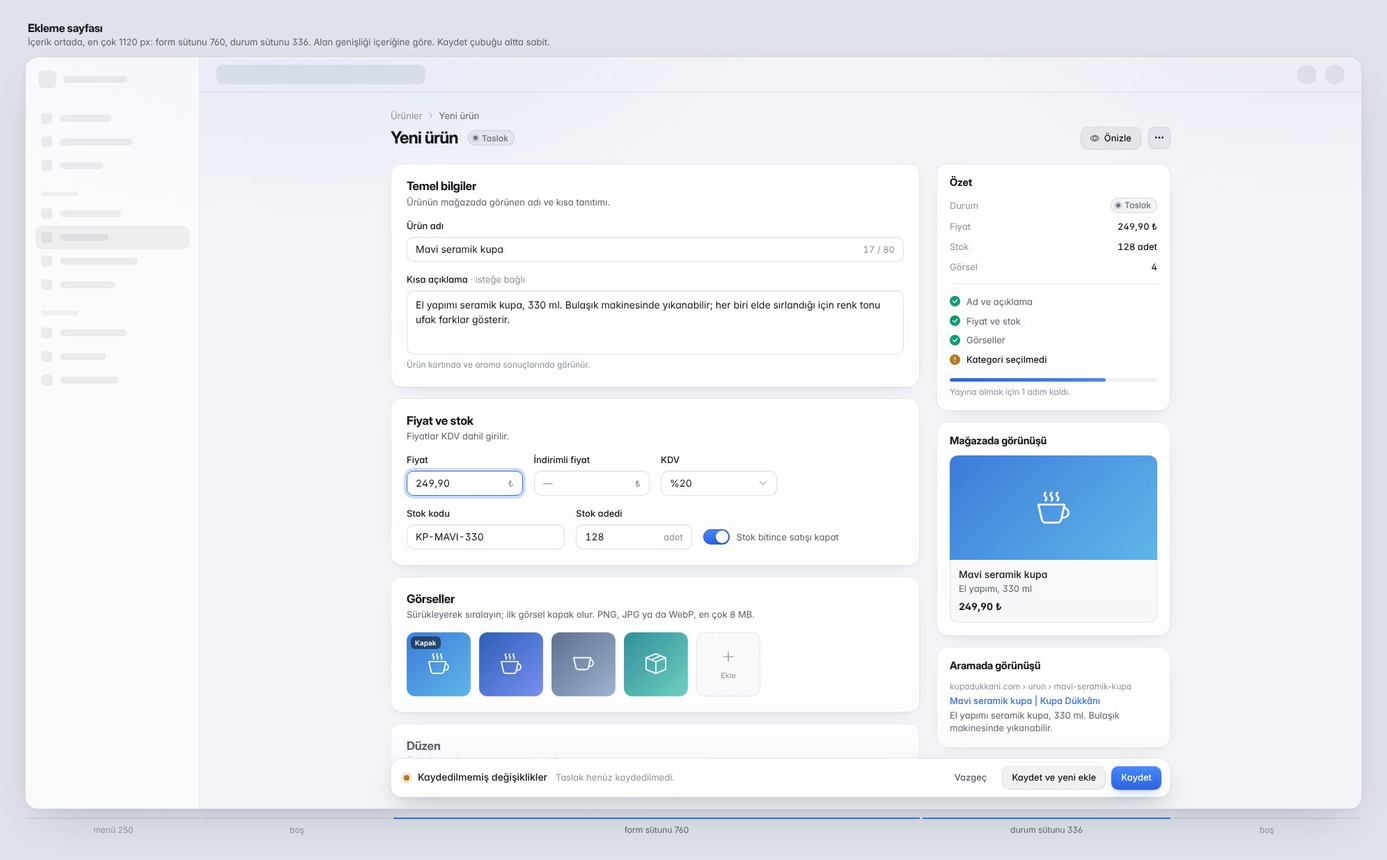
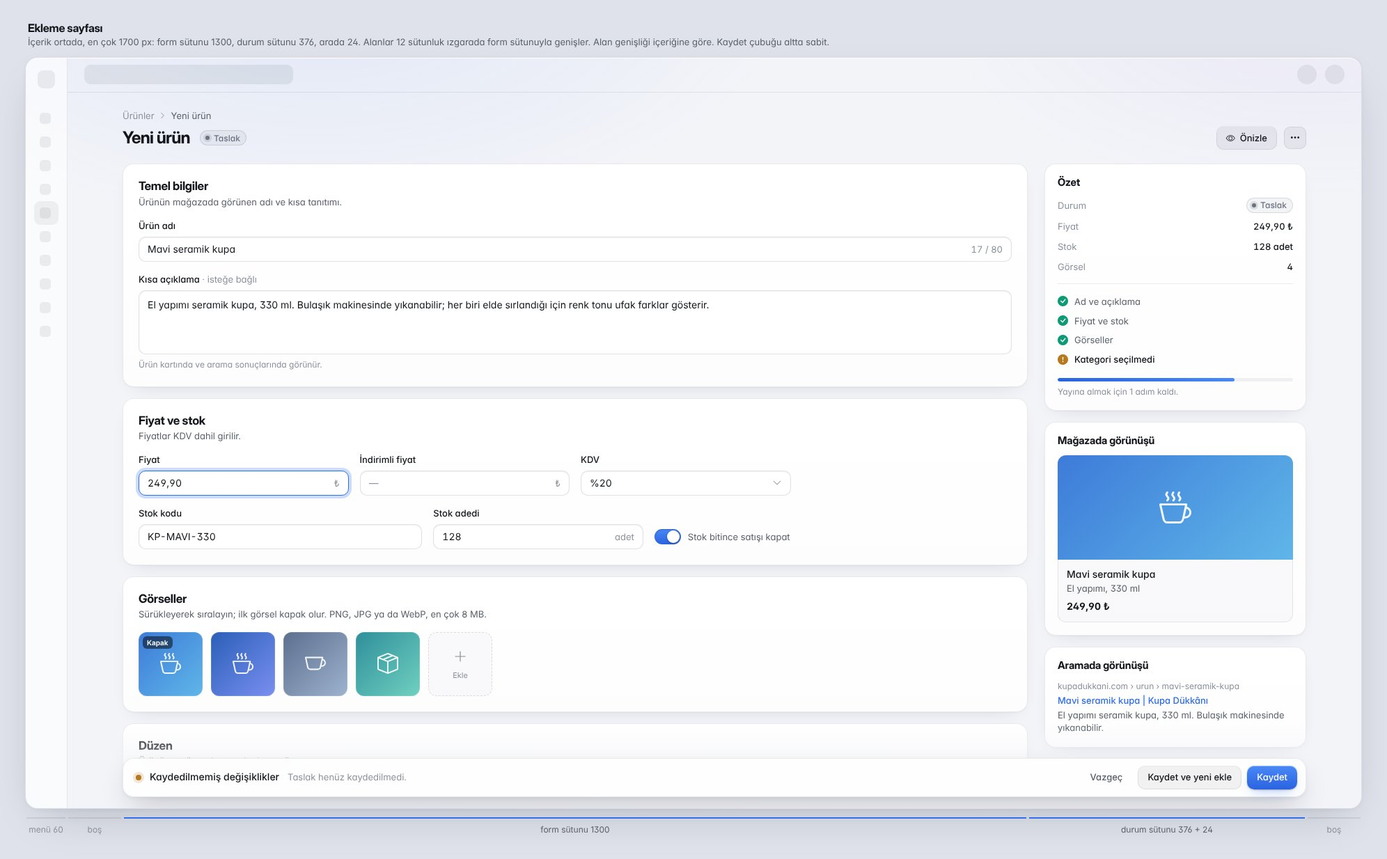
Page widths close-out: the sheet's add and table pages at the 1700 px measures, memory brought to the merged steps

diff --git a/docs/memory/plans/panel-design-language/add-page.html b/docs/memory/plans/panel-design-language/add-page.html
@@ -6,8 +6,14 @@
 <link rel="stylesheet" href="../../../../pinegrap/assets/fonts/bootstrap-icons/bootstrap-icons.min.css">
 <link rel="stylesheet" href="sheet.css">
 <style>
-.wrap { width: 1120px; }
-.cols { display: grid; grid-template-columns: 760px 336px; gap: 24px; align-items: start; }
+/* The main menu as the panel shows it at 1920 px: the mini rail; the content box keeps the panel's 16 px sides. */
+.screen { grid-template-columns: 60px 1fr; }
+.menu { padding: 16px 12px; }
+.menu .sk, .menu .mh { display: none; }
+.menu .logo { margin: 2px 5px 26px; }
+.content { padding: 24px 16px 0; }
+.wrap { width: 1700px; }
+.cols { display: grid; grid-template-columns: 1300px 376px; gap: 24px; align-items: start; }
 .pcard { padding: 20px 22px 22px; margin-bottom: 16px; }
 .pcard h2 { margin: 0; font: 650 17px/1.3 "Inter Display", Inter, sans-serif; letter-spacing: -.015em; }
 .pcard p.d { margin: 2px 0 16px; font-size: 13px; color: var(--fg2); }
@@ -47,7 +53,7 @@
 
 /* save bar: sticks to the bottom of the window, as wide as the page */
 .main::after { content: ""; position: absolute; left: 0; right: 0; bottom: 0; height: 120px; background: linear-gradient(transparent, var(--page) 78%); pointer-events: none; }
-.savebar { position: absolute; z-index: 2; left: 50%; bottom: 16px; transform: translateX(-50%); width: 1120px; height: 56px; padding: 0 12px 0 18px; display: flex; align-items: center; gap: 8px;
+.savebar { position: absolute; z-index: 2; left: 50%; bottom: 16px; transform: translateX(-50%); width: 1700px; height: 56px; padding: 0 12px 0 18px; display: flex; align-items: center; gap: 8px;
   border-radius: 16px; background: var(--float); backdrop-filter: blur(16px); border: 1px solid var(--line); box-shadow: var(--shadow-float); }
 .savebar .dot { width: 8px; height: 8px; border-radius: 50%; background: var(--amber); box-shadow: 0 0 0 4px color-mix(in srgb, var(--amber) 18%, transparent); margin-right: 4px; }
 .savebar b { font-weight: 550; }
@@ -56,7 +62,7 @@
 </head>
 <body>
 <div class="stage">
-<div class="cap"><b>Ekleme sayfası</b>İçerik ortada, en çok 1120 px: form sütunu 760, durum sütunu 336. Alan genişliği içeriğine göre. Kaydet çubuğu altta sabit.</div>
+<div class="cap"><b>Ekleme sayfası</b>İçerik ortada, en çok 1700 px: form sütunu 1300, durum sütunu 376, arada 24. Alanlar 12 sütunluk ızgarada form sütunuyla genişler. Alan genişliği içeriğine göre. Kaydet çubuğu altta sabit.</div>
 <div class="screen">
   <aside class="menu">
     <div class="logo"><i></i><span class="sk" style="width:92px"></span></div>
@@ -152,7 +158,7 @@
     <div class="savebar"><span class="dot"></span><b>Kaydedilmemiş değişiklikler</b><small>Taslak henüz kaydedilmedi.</small><span class="sp"></span><button class="btn ghost">Vazgeç</button><button class="btn quiet">Kaydet ve yeni ekle</button><button class="btn fill">Kaydet</button></div>
   </div>
 </div>
-<div class="ruler"><span style="width:250px">menü 250</span><span style="flex:1">boş</span><span class="on" style="width:756px">form sütunu 760</span><span class="on" style="width:356px">durum sütunu 336</span><span style="flex:1">boş</span></div>
+<div class="ruler"><span style="width:56px">menü 60</span><span style="flex:1">boş</span><span class="on" style="width:1296px">form sütunu 1300</span><span class="on" style="width:396px">durum sütunu 376 + 24</span><span style="flex:1">boş</span></div>
 </div>
 </body>
 </html>

diff --git a/docs/memory/plans/panel-design-language/table-page.html b/docs/memory/plans/panel-design-language/table-page.html
@@ -6,7 +6,13 @@
 <link rel="stylesheet" href="../../../../pinegrap/assets/fonts/bootstrap-icons/bootstrap-icons.min.css">
 <link rel="stylesheet" href="sheet.css">
 <style>
-.wrap { width: 1280px; }
+/* The main menu as the panel shows it at 1920 px: the mini rail; the content box keeps the panel's 16 px sides. */
+.screen { grid-template-columns: 60px 1fr; }
+.menu { padding: 16px 12px; }
+.menu .sk, .menu .mh { display: none; }
+.menu .logo { margin: 2px 5px 26px; }
+.content { padding: 24px 16px 0; }
+.wrap { width: 1700px; }
 .tools { display: flex; align-items: center; gap: 10px; margin-bottom: 14px; }
 .tools .in { width: 300px; height: 34px; }
 .fp { display: inline-flex; align-items: center; gap: 6px; height: 32px; padding: 0 11px; border-radius: 10px; font-size: 13px; font-weight: 500; color: var(--fg2); box-shadow: inset 0 0 0 1px var(--line); white-space: nowrap; }
@@ -50,7 +56,7 @@ table.lt { width: 100%; border-collapse: separate; border-spacing: 0; }
 </head>
 <body>
 <div class="stage">
-<div class="cap"><b>Tablo sayfası</b>Tablo, sütunlarının istediği kadar geniş: en az 1280 px, ortada. Esneyen tek sütun ad sütunu. Sayfalama yok; kaydırdıkça satır eklenir.</div>
+<div class="cap"><b>Tablo sayfası</b>Tablo, sütunlarının istediği kadar geniş: en az 1700 px, ortada; detay paneli açılınca genişliği eklenir, ekrana kadar. Esneyen tek sütun ad sütunu. Sayfalama yok; kaydırdıkça satır eklenir.</div>
 <div class="screen">
   <aside class="menu">
     <div class="logo"><i></i><span class="sk" style="width:92px"></span></div>
@@ -117,7 +123,7 @@ table.lt { width: 100%; border-collapse: separate; border-spacing: 0; }
     </div>
   </div>
 </div>
-<div class="ruler"><span style="width:250px">menü 250</span><span style="flex:1">boş</span><span class="on" style="width:1276px">tablo en az 1280 · sütunlar çoğalınca ekrana kadar genişler</span><span style="flex:1">boş</span></div>
+<div class="ruler"><span style="width:56px">menü 60</span><span style="flex:1">boş</span><span class="on" style="width:1696px">tablo en az 1700 · sütunlar çoğalınca ekrana kadar genişler</span><span style="flex:1">boş</span></div>
 </div>
 </body>
 </html>

diff --git a/docs/memory/ui/look-screen-widths.md b/docs/memory/ui/look-screen-widths.md
@@ -1,6 +1,6 @@
 ---
 name: look-screen-widths
-description: Root panel screens outside the look's widths (no pg-measure-edit, -list or -report, or a container of their own) on 2026-11-13, and the step that takes each, LW5-LW7 for the rest
+description: Root panel screens outside the look's widths (no pg-measure-edit, -list or -report, or a container of their own) on 2026-11-13, and the PR that took each (#9230, #9330, #9249)
 ---
 
 ## How was it found?
@@ -11,14 +11,14 @@ description: Root panel screens outside the look's widths (no pg-measure-edit, -
 - Not the look's (plan rule: no File Manager, designer, Workspace): `workspace*` (11), `view_folders`, `view_fields` (form designer), `generate_layout`, `legacy_to_designer`, `import_design`, `view_system_style_source`, `edit_page_layout`, `edit_theme_css`, `toolbar`, `preview_form`.
 - The dashboard `welcome` keeps its look (DL5a not given, #8938). `design_examples` is the look's own page.
 - Open in the settings dialog (DL5d, #8952): `cloudflare`, `software_update`, `view_parasut_inbox` send the browser to `welcome.php#settings…`.
-- LW2 / DL5c field widths (add and edit screens without the class): `add_email_campaign`, `edit_email_campaign`, `edit_sms_campaign`, `edit_offer`, `add_erp_manual_invoice`, `add_erp_purchase_order`, `add_erp_quote`, `edit_erp_invoice_draft`, `edit_erp_purchase_order`, `edit_erp_quote`; details screens `view_order`, `view_return`, `view_visitor`; code editors `edit_custom_style`, `edit_javascript`, `editor_edit_file` (whether an editor fills the window goes with LW2's proposal).
+- #9269 / DL5c field widths (add and edit screens without the class): `add_email_campaign`, `edit_email_campaign`, `edit_sms_campaign`, `edit_offer`, `add_erp_manual_invoice`, `add_erp_purchase_order`, `add_erp_quote`, `edit_erp_invoice_draft`, `edit_erp_purchase_order`, `edit_erp_quote`; details screens `view_order`, `view_return`, `view_visitor`; code editors `edit_custom_style`, `edit_javascript`, `editor_edit_file` (whether an editor fills the window was not part of #9271).
 
-## Which screens did no step take? (new steps, `plans/look-widths-and-switch.md`)
-- LW5 Lists and views not on the table driver, so DL5b (#8921) did not reach them: `calendars` (the month view), `view_menu_items`, `view_sessions`, `view_performance_log`, `view_accessibility`, `backups`, `translations`, `marketplace_products`, `erp_purchase_orders`, `erp_quotes`, `erp_expenses`, `erp_expense_categories`, `erp_cheques`, `erp_bank_statements`, `erp_stock_counts`, `erp_invoice_recurrences`, `erp_audit`.
-- LW6 (done) Settings, tool and import pages at the edit measure; the ones without a status column also take `pg-measure-single` (`connected_apps`, `device_pairing`, `developer_lock`, `system_tools`, `migration`, `experiments`, `api_docs`, `import_users`, `erp_accountant`, `approve_affiliate`). Settings: `api_settings`, `smtp_settings`, `marketplace_settings`, `erp_settings`, `connections`, `connected_apps`, `device_pairing`, `developer_lock`, `database_engine`.
-- LW6 tools: `system_tools`, `clean_up` (its `.container` is the save bar's; the measure drops its 1440 px), `migration`, `experiments`, `page_experiments`, `api_docs`, `create_file`, `find_and_replace`, `mass_edit`, `privacy_erase`, `privacy_export`, `barcode_increase_inventory`, `barcode_decrease_inventory`, `approve_affiliate`.
-- LW6 imports and ERP pages: every `import*` but `import_design` (10), `erp_export`, `erp_accounts_import`, `erp_account_sync_item`, `erp_accountant`, `erp_bank_statement`, `erp_inbox_document`, `erp_reconciliation`, `erp_stock_count`.
-- LW7 Reports at the report width (DL5e, #8981, took the report view only): `erp_dashboard`, `erp_aging`, `erp_cashflow`, `erp_profit`, `search_console`, `search_audits`. `visitors` keeps its own look (`visitors-screen-look.md`).
+## Which screens did no step take? (#9230, #9330, #9249)
+- #9230 Lists and views not on the table driver, so DL5b (#8921) did not reach them: `calendars` (the month view), `view_menu_items`, `view_sessions`, `view_performance_log`, `view_accessibility`, `backups`, `translations`, `marketplace_products`, `erp_purchase_orders`, `erp_quotes`, `erp_expenses`, `erp_expense_categories`, `erp_cheques`, `erp_bank_statements`, `erp_stock_counts`, `erp_invoice_recurrences`, `erp_audit`.
+- #9330 Settings, tool and import pages at the edit measure; the ones without a status column also take `pg-measure-single` (`connected_apps`, `device_pairing`, `developer_lock`, `system_tools`, `migration`, `experiments`, `api_docs`, `import_users`, `erp_accountant`, `approve_affiliate`). Settings: `api_settings`, `smtp_settings`, `marketplace_settings`, `erp_settings`, `connections`, `connected_apps`, `device_pairing`, `developer_lock`, `database_engine`.
+- #9330 tools: `system_tools`, `clean_up` (its `.container` is the save bar's; the measure drops its 1440 px), `migration`, `experiments`, `page_experiments`, `api_docs`, `create_file`, `find_and_replace`, `mass_edit`, `privacy_erase`, `privacy_export`, `barcode_increase_inventory`, `barcode_decrease_inventory`, `approve_affiliate`.
+- #9330 imports and ERP pages: every `import*` but `import_design` (10), `erp_export`, `erp_accounts_import`, `erp_account_sync_item`, `erp_accountant`, `erp_bank_statement`, `erp_inbox_document`, `erp_reconciliation`, `erp_stock_count`.
+- #9249 Reports at the report width (DL5e, #8981, took the report view only): `erp_dashboard`, `erp_aging`, `erp_cashflow`, `erp_profit`, `search_console`, `search_audits`. `visitors` keeps its own look (`visitors-screen-look.md`).
 
 ## Which measured screens hold a narrower block?
 - None that narrows the page: a list cell stops at 352 px (`--pg-list-table-cell-max`), `add_container`'s length row is 600 px.

diff --git a/docs/memory/plans/panel-design-language-sheet.md b/docs/memory/plans/panel-design-language-sheet.md
@@ -1,13 +1,13 @@
 ---
 name: panel-design-language-sheet
-description: The reference sheet of the panel's design language: its pages (basics, add page, table page, the bell's drawer), the page widths they set (#8860), the list rules, what is only a placeholder
+description: The reference sheet of the panel's design language: its pages (basics, add page, table page, the bell's drawer), the page widths they set (#8860, #9070), the list rules, what is only a placeholder
 ---
 
 ## Which pages does the sheet have?
 - In `plans/panel-design-language/`, each as its source (`.html` with `sheet.css`) and as pictures in both themes (`-dark.jpg`, `-light.jpg`). Open a source with Inter and Inter Display installed.
 - `basics`: type, buttons, the segmented control, status pills, icon tiles, fields; a small list with figure cards; a settings card.
-- `add-page`: an add or edit screen on a 1920 px window.
-- `table-page`: a list on the table driver on a 1920 px window.
+- `add-page`: an add or edit screen on a 1920 px window, the main menu as its 60 px rail.
+- `table-page`: a list on the table driver on a 1920 px window, the main menu as its 60 px rail.
 - `bell-drawer`: the bell's drawer in the second pass (#8860): the head's icon buttons, the filter row (a segmented control with counts, the "Unread" button), day groups, the rows, a fold as gathered rows, the foot's device switch.
 - `dialogs`: the confirm, form and settings dialogs and a drawer drawn as "Channel info" (#8860, #8880); numbers in `panel-design-language-dialogs.md`.
 - `report-page`: a report screen (#8955): ready reports, period, figures, chart, grouped table, and under it the bars card and the report settings drawer; numbers in `panel-design-language-report.md`.
@@ -18,13 +18,13 @@ description: The reference sheet of the panel's design language: its pages (basi
 - The sample products and texts are examples; the Turkish in them is not the translation to use.
 
 ## How wide is an add or edit screen?
-- Owner decision #9070 (`workflow/decisions-made-panel-7.md`): centred and at most 1700 px, status column 376, 24 between, the form column the rest. The page is still drawn at the earlier 1120 px (760 + 336) until LW2 of `look-widths-and-switch.md` redraws it. On a narrower window the columns shrink, then stack as `ui/edit-screen-wide-layout.md` says; its three parts stay.
-- A field is as wide as its content asks, on a 12-column grid inside the card with 16 px gaps: a price, a rate or a count 3 columns; a code 4; a select 6; a name or a text the whole row. An input never runs the width of the window.
+- Owner decision #9070 (`workflow/decisions-made-panel-7.md`): centred and at most 1700 px, status column 376, 24 between, the form column the rest. On a narrower window the columns shrink, then stack as `ui/edit-screen-wide-layout.md` says; its three parts stay.
+- A field is as wide as its content asks, on a 12-column grid inside the card with 16 px gaps: a price, a rate or a count 3 columns; a code 4; a select 6; a name or a text the whole row. Fields widen with the form column (#9271); an input never runs the width of the window.
 - A card: its title (17 / 650) and one line under it, then the fields; 16 px between cards. The status column holds what is read: a summary, what is missing, the previews.
 - The save bar floats at the window's bottom, as wide as the content: what is unsaved at the left, the buttons at the right (ghost, quiet, one filled).
 
 ## How wide is a list, and how does it page?
-- Owner decision #9070. The frame is as wide as its columns need: at least 1700 px (the window when it is narrower), at most the window, centred; the page is still drawn at the earlier 1280 px. Only the name column takes the slack; every other column keeps its content's width.
+- Owner decision #9070. The frame is as wide as its columns need: at least 1700 px (the window when it is narrower), at most the window, centred; an open details panel adds its width, up to the window. Only the name column takes the slack; every other column keeps its content's width.
 - The driver's parts stay (`ui/list-table-layout.md`): the bar as the frame's header strip (clear, count, bulk buttons; quick edit, columns and Details at the right), a sticky heading, one-line rows (52 px high, a 32 px thumbnail), the actions column.
 - No pager, no previous and next: rows are added on scroll; while they load the foot shows rows of gray bars and "Daha fazla göster".
 - Above the frame: the title with the count and the screen's buttons at the right; then search (300 px), the segmented control with counts, the filter buttons.

diff --git a/docs/memory/plans/INDEX.md b/docs/memory/plans/INDEX.md
@@ -27,7 +27,6 @@
 - kodpen-vendor-api-client-design-update.md: Update contract of plans/kodpen-vendor-api-client.md still to build: which keys verify (P5c) and P2's release workflow; the built check, pin, download and beta builds are in platform/
 - kodpen-vendor-api-client-steps.md: Open steps of plans/kodpen-vendor-api-client.md: P2 and P5c before the 2026.11.0 release branch, P9 (api2 client removal) in the next open version; claim as [plan:kodpen-vendor-api-client] P<n>
 - kodpen-vendor-api-client.md: Plan (owner 2026-10-25 to 27): the Kodpen API client is on (P8); left are P2 and P5c before the 2026.11.0 release branch and P9, the api2 client removal in the next open version; steps in -steps
-- look-widths-and-switch.md: Plan (owner 2026-11-13, #9070): lists at least 1700 px with the details panel added beside, add and edit screens up to 1700 px, the switch with its thumb again; steps LW1-LW7
 - marketplace-trendyol-hepsiburada.md: Plan (approved 2026-10-19): Trendyol (V2) and Hepsiburada on the n11 layer
 - messages-area-decided-2.md: The architect's decisions on the proposals of MA9a and MA10a (#9077): campaign profiles into flows (boxes first, what stays, one flow per chain, the switch, the owner), incoming e-mail in the area
 - messages-area-decided.md: The architect's decisions on the proposals of MA0 and MA4 (#9081, #9083): the shell, the Sends list as a union with its measure, e-mail source, rights, the e-mail design page
@@ -38,7 +37,7 @@
 - panel-design-language-dialogs.md: Look A's dialogs and drawers (#8860): the scrim, the three dialog widths, head, body and foot, the confirm dialog, the settings dialog's rail and pane, a drawer's sections and member rows
 - panel-design-language-look.md: Look A's numbers (second pass) for the panel's design language: type, surfaces and depth, fields, buttons, the segmented control, the status pill, the icon tile and tones, rows, what a title says
 - panel-design-language-report.md: Look A's report screen (#8955): ready reports and the period on top, four figures, the chart against the previous period, the grouped table and its total, the bars card, the settings drawer
-- panel-design-language-sheet.md: The reference sheet of the panel's design language: its pages (basics, add page, table page, the bell's drawer), the page widths they set (#8860), the list rules, what is only a placeholder
+- panel-design-language-sheet.md: The reference sheet of the panel's design language: its pages (basics, add page, table page, the bell's drawer), the page widths they set (#8860, #9070), the list rules, what is only a placeholder
 - panel-design-language-steps.md: Steps DL1-DL6 of the panel's design language (look A, #8842, #8860): typeface and recipes, the page widths, the Design examples screen, the bell's drawer, the check, the screen families, close-out
 - report-screens-steps.md: Steps of plans/report-screens.md: RS1 the Sales map card's See all, RS2 the shared view on the order report, RS3 its ready reports, RS4-RS5 the visitor report, RS6 shipping, RS7 ERP VAT, RS8 close-out
 - report-screens.md: Plan (owner 2026-11-11, #8673): the order, visitor, shipping and ERP VAT report screens drawn as the dashboard: figures, a chart, the table, settings in a drawer, ready reports; steps RS1-RS8

diff --git a/docs/memory/workflow/decisions-made-panel-8.md b/docs/memory/workflow/decisions-made-panel-8.md
@@ -12,7 +12,7 @@ description: Decisions list, panel part 8 (2026-11-12 on): look A's report page 
 - The architect's, not the owner's words: the page re-dresses the parts of the report view (`ui/report-view.md`) and adds none; step DL5e of `plans/panel-design-language-steps.md` follows it.
 
 ## Is a settings switch without a thumb approved? (owner, 2026-11-12, #9070)
-- No. A switch is the reference sheet's: a thumb that can be seen in both states and both themes. Plan `plans/look-widths-and-switch.md` (LW3).
+- No. A switch is the reference sheet's: a thumb that can be seen in both states and both themes. Done #9197 (`ui/look-switch.md`).
 - Owner (2026-11-12), with a picture of a settings row in the dark theme: "ayarlardaki görsel 1 deki gibi switchler değişik bir checkbox türüne evrilmiş ben bunu onaylamadım".
 
 ## Where is the Design Canvas icon drawn in one colour? (owner, 2026-11-13, #9250)
@@ -22,6 +22,6 @@ description: Decisions list, panel part 8 (2026-11-12 on): look A's report page 
 - Built in DI1 (`ui/design-canvas-icon.md`): `pg_design_canvas_icon_one_colour()`.
 
 ## How do cards use the form column of an add or edit screen? (owner, 2026-11-13, #9271)
-- The measure alone: a card stays one per row and its fields keep the 12-column grid, so they widen with the form column up to 1300 px (way A of step LW2, `plans/look-widths-and-switch.md`). Not chosen: fields two abreast with each input capped at about 480 px (C).
+- The measure alone: a card stays one per row and its fields keep the 12-column grid, so they widen with the form column up to 1300 px (way A of #9269, `ui/look-page-widths.md`). Not chosen: fields two abreast with each input capped at about 480 px (C).
 - Owner (2026-11-13): "A olsun"; told that a full-row input becomes about 1270 px against the field sentence of #9070: "C çok salkım saçak olacak ya A ya B olsun".
 - The architect's, not the owner's words: he left A or B open and the architect takes A, his first answer; two cards abreast (B) is what to come back to if stretched fields look wrong on the real screens. It narrows #9070 (`decisions-made-panel-7.md`): an input may run the width of the form column, never of the window. The architect did not see the pictures.

diff --git a/docs/memory/ui/INDEX.md b/docs/memory/ui/INDEX.md
@@ -393,7 +393,7 @@
 - look-edit-screens.md: Add and edit screens in look A (DL5c, #8934): the edit width on every add/edit screen, columns 1300 and 376 from the shared classes, look cards and titles, the floating save bar; what is not done yet
 - look-page-widths.md: Look A's page widths: edit screens centred at 1700 px (1300 + 24 + 376), lists as wide as their columns (1700 px to the window, details panel added), held while searching; tokens, rail [decision: decisions-made-panel-7.md, decisions-made-panel-8.md, decisions-made-product-48.md]
 - look-report-screens.md: Report screens in look A (DL5e, #8981): order, visitor, shipping and ERP tax reports; head, strip, tools row, table frame, drawer, the choices made and what is not done
-- look-screen-widths.md: Root panel screens outside the look's widths (no pg-measure-edit, -list or -report, or a container of their own) on 2026-11-13, and the step that takes each, LW5-LW7 for the rest [decision: decisions-made-panel-7.md]
+- look-screen-widths.md: Root panel screens outside the look's widths (no pg-measure-edit, -list or -report, or a container of their own) on 2026-11-13, and the PR that took each (#9230, #9330, #9249) [decision: decisions-made-panel-7.md, decisions-made-panel-8.md]
 - look-settings-screens.md: Settings screens in look A (DL5d, #8952): dialog size, rail, head and foot; cards as a title over an inner card of rows, page and dialog; 32 px fields, switch; what is not done
 - look-switch.md: The look's switch (#9197): .pg-switch and the settings card and report drawer .switch, one drawing: white 18 px thumb, accent gradient, focus ring, disabled; the missing thumb [decision: decisions-made-panel-7.md, decisions-made-panel-8.md, decisions-made-product-48.md]
 - look-type-and-recipes.md: Look A's typeface (self-hosted Inter 4.1), the type scale and tone tokens, and the recipe classes in backend.src.css (#8879): which class draws which part, the block's place, the unlayered body family

diff --git a/docs/memory/workflow/decisions-made-panel-7.md b/docs/memory/workflow/decisions-made-panel-7.md
@@ -17,7 +17,7 @@ description: Decisions list, panel part 7 (2026-11-12 on): look A's second pass 
 
 ## How wide is a list, and how does it page? (owner, 2026-11-13, #9070)
 - As wide as its columns need: at least 1700 px (the window when it is narrower), at most the window, centred; only the name column takes the slack. With the details panel open its width is added, up to the whole window; the table gives way only when the window has no room left.
-- Owner (2026-11-13), with two pictures of the Pages list: "aslında sayfalar ekranı doğru olmuştu. detay paneli kapalıyken 1700 civarı açınca tam ekran oluyordu"; "diğer sayfalarda container standart genişliği olmuş nedense". It replaces the 1280 px minimum (#8860). Plan `plans/look-widths-and-switch.md`.
+- Owner (2026-11-13), with two pictures of the Pages list: "aslında sayfalar ekranı doğru olmuştu. detay paneli kapalıyken 1700 civarı açınca tam ekran oluyordu"; "diğer sayfalarda container standart genişliği olmuş nedense". It replaces the 1280 px minimum (#8860). Done #9185, #9269, #9230, #9330, #9249 (`ui/look-page-widths.md`, `ui/look-screen-widths.md`).
 - No pager: rows are added on scroll, with "Daha fazla göster" in the foot (owner, 2026-11-12, #8860).
 
 ## Is the dialogs and drawers page the reference? (owner, 2026-11-12, #8860)

diff --git a/docs/memory/ui/save-bar-chat-launcher.md b/docs/memory/ui/save-bar-chat-launcher.md
@@ -4,7 +4,7 @@ description: Look A's floating save bar (edit screens, settings pages) ends its 
 ---
 
 ## What was wrong?
-- With the panel chat on (`#pg-chat-root`), the round launcher floats 24 px from the window's bottom right. Look A's save bar puts its buttons at its right end, so the launcher covered Save; the owner saw it on the settings and tool pages of LW6 (2026-11-13).
+- With the panel chat on (`#pg-chat-root`), the round launcher floats 24 px from the window's bottom right. Look A's save bar puts its buttons at its right end, so the launcher covered Save; the owner saw it on the settings and tool pages of #9330 (2026-11-13).
 
 ## What does it do now?
 - From 576 px the bar's `.container` takes `margin-inline-end: var(--pg-chat-clearance)` while the chat is on the page: `body.pg-measure-edit:has(#pg-chat-root) .row > .order-3 > nav.buttons.navigation > .container` and the same for `#pg_settings_page_form` (`backend.src.css`).

diff --git a/docs/memory/ui/look-settings-screens.md b/docs/memory/ui/look-settings-screens.md
@@ -22,7 +22,7 @@ description: Settings screens in look A (DL5d, #8952): dialog size, rail, head a
 - Fields in a card (`.form-control`) are 32 px, corners 9, 13 px, on the field colours; Bootstrap's `.switch` is the look's switch (`look-switch.md`).
 
 ## What about the settings page (settings_<key>.php)?
-- Body class `pg-measure-edit`: the content centred at 1700 px (since #9269; a single card at the form column waits for LW6, `plans/look-widths-and-switch.md`). Its save bar is the floating bar from 576 px, "Save" filled.
+- Body class `pg-measure-edit`: the content centred at 1700 px (since #9269); a page with no status column adds `pg-measure-single` and sits at the form column, 1300 px (#9330). Its save bar is the floating bar from 576 px, "Save" filled.
 
 ## What is not done yet?
 - The 34 px icon tile at a row's left, the segmented control and small quiet button as row controls: per-row markup, card by card.
